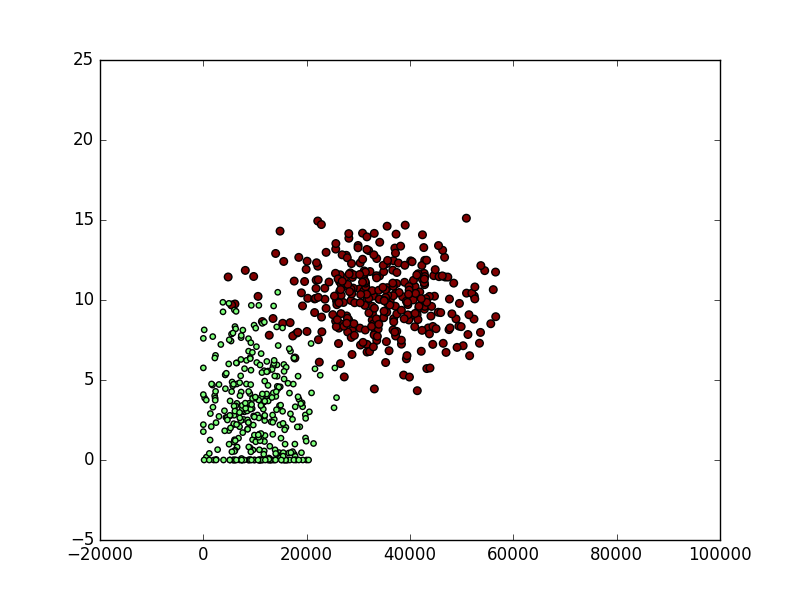
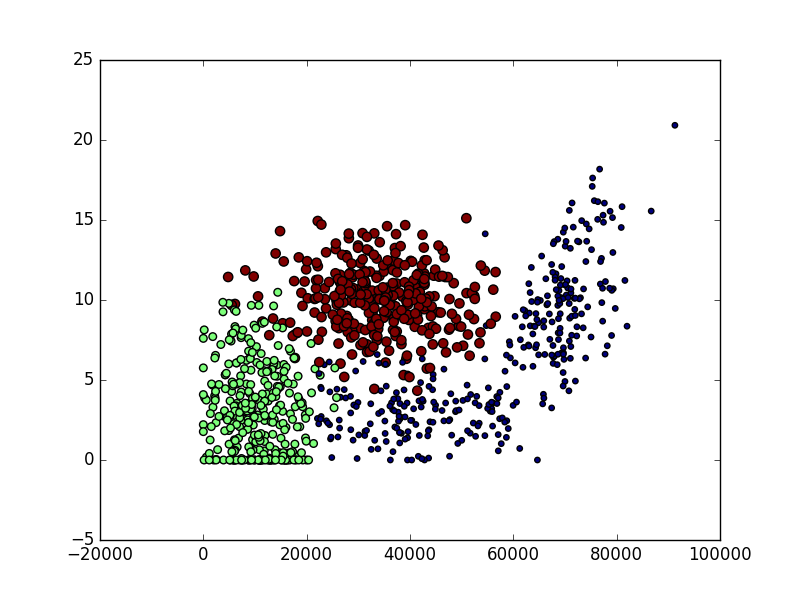
change images

Changed region(s): [[0.25, 0.27, 0.7812, 0.78], [0.3438, 0.36, 0.4062, 0.39], [0.5625, 0.36, 0.5938, 0.39]]

diff --git a/Ch02_kNN/kNN.py b/Ch02_kNN/kNN.py
@@ -6,14 +6,14 @@ k-近邻（kNN）算法测试
 '''
 
 
-import numpy    #科学计算模块包
+import numpy as np   #科学计算模块包
 import operator #运算符模块包
 
 def createDataset():
     '''
     准备训练样本集，返回数据与对应标签
     '''
-    group = numpy.array([[1.0, 1.1], [1.0, 1.0], [0, 0], [0, 0.1]])
+    group = np.array([[1.0, 1.1], [1.0, 1.0], [0, 0], [0, 0.1]])
     labels = ['A', 'A', 'B', 'B']
     return group, labels
 
@@ -32,40 +32,57 @@ def classify0(inX, dataSet, lables, k):
     lables:训练样本对应标签（与dataSet len 等长）
     k: 要选取前多少个相近记录。
     '''
-    dataSetLen = dataSet.shape[0] #返回dataSet样本长度
+    dataSetLen = dataSet.shape[0] #dataSet.shape返回dataSet样本的维数元组，其中第一个元素为样本个数
     
-    diffMat = numpy.tile(inX, (dataSetLen, 1)) - dataSet
+    diffMat = np.tile(inX, (dataSetLen, 1)) - dataSet
     '''
-    tile函数说明: Repeat elements of an array.
-
-    Examples
-    --------
-    >>> a = np.array([0, 1, 2])
-    >>> np.tile(a, 2)
-    array([0, 1, 2, 0, 1, 2])
-    >>> np.tile(a, (2, 2))
-    array([[0, 1, 2, 0, 1, 2],
-           [0, 1, 2, 0, 1, 2]])
-    >>> np.tile(a, (2, 1, 2))
-    array([[[0, 1, 2, 0, 1, 2]],
-           [[0, 1, 2, 0, 1, 2]]])
-
-    >>> b = np.array([[1, 2], [3, 4]])
-    >>> np.tile(b, 2)
-    array([[1, 2, 1, 2],
-           [3, 4, 3, 4]])
-    >>> np.tile(b, (2, 1))
-    array([[1, 2],
-           [3, 4],
-           [1, 2],
-           [3, 4]])
+        tile函数说明: Repeat elements of an array.
+    
+        Examples
+        --------
+        >>> a = np.array([0, 1, 2])
+        >>> np.tile(a, 2)
+        array([0, 1, 2, 0, 1, 2])
+        >>> np.tile(a, (2, 2))
+        array([[0, 1, 2, 0, 1, 2],
+               [0, 1, 2, 0, 1, 2]])
+        >>> np.tile(a, (2, 1, 2))
+        array([[[0, 1, 2, 0, 1, 2]],
+               [[0, 1, 2, 0, 1, 2]]])
+    
+        >>> b = np.array([[1, 2], [3, 4]])
+        >>> np.tile(b, 2)
+        array([[1, 2, 1, 2],
+               [3, 4, 3, 4]])
+        >>> np.tile(b, (2, 1))
+        array([[1, 2],
+               [3, 4],
+               [1, 2],
+               [3, 4]])
+    '''    
     '''
+    tile也可以使用repeat代替
+    >>> bb =np.array(inX)
+    >>> bb.shape
+    (2,)
+    >>> bb.shape = (1,-1)
+    >>> bb
+    array([[0, 0]])
+    >>> bb.repeat(dataSetLen,axis=0)
+    array([[0, 0],
+       [0, 0],
+       [0, 0],
+       [0, 0],
+       [0, 0]])
+    '''
+    
+    
     sqDiffMat = diffMat ** 2
     sqDistances = sqDiffMat.sum(axis=1)
     distances = sqDistances ** 0.5
     
     #sort distances
-    sortedDistIndicies = distances.argsort()
+    sortedDistIndicies = distances.argsort() #返回从小到大排序后的index
     
     classCount = {}
     for i in range(k):
@@ -76,12 +93,106 @@ def classify0(inX, dataSet, lables, k):
     return sortedClassCount[0][0]
     
     
+
+def file2matrix(filename):
+    '''
+    从文件filename中读取约会数据样本，并返回样本数据与标签
+    '''
+    returnMat = []
+    returnLabel = []
+    lable = {'didntLike':1, 'smallDoses':2, 'largeDoses':3}
+    with open(filename, 'r') as fp:
+        lines = fp.readlines()
+        returnMat = np.zeros((len(lines), 3)) #定义一个(len(lines), 3) 2维数组并填充0
+        '''
+        这里使用zeros初始化全是0是二维数组的好处是，np会默认将从文件读取的字符串转化成float, 不用在代码里显示转换
+        '''
+        index = 0
+        for line in lines:
+            listFromLine = line.strip().split('\t')
+            returnMat[index,:] = listFromLine[0:3]
+            returnLabel.append(lable[listFromLine[-1]] if listFromLine[-1] in lable else 1)
+            index +=1
+        returnMat = np.array(returnMat)
+            
+    return returnMat , returnLabel
+    
+def autoNorm(dataSet):
+    '''
+    针对样本数据归一化，减小不同属性数据单位不一致，导致权重问题
+    '''
+    mimVal = dataSet.min(0)
+    maxVal = dataSet.max(0)
+    ranges = maxVal - mimVal
+    normDataSet = np.zeros(dataSet.shape)
+    
+    normDataSet = dataSet - np.tile(mimVal, (dataSet.shape[0], 1))
+    normDataSet = normDataSet / np.tile(ranges, (dataSet.shape[0], 1))
+    
+    
+    return normDataSet, ranges, mimVal, maxVal
+
+
+def datingClassTest():
+    '''
+    测试约会KNN算法在此样本下的正确率。使用90%的总样本作为训练样本，其余10%用于评估算法的正确率
+    '''
+    hoRatio = 0.05
+    datingDataMat , datingLabels = file2matrix("datingTestSet.txt")
+    datingDataMat, ranges, mimVal, maxVal = autoNorm(datingDataMat)
+    numTestVecs = int(hoRatio * datingDataMat.shape[0])
+    errorCount = 0.0
+    
+    for i in range(numTestVecs):
+        classifyResultLabel = classify0(datingDataMat[i,:], datingDataMat[numTestVecs:datingDataMat.shape[0],:], datingLabels[numTestVecs:datingDataMat.shape[0]], 10)
+        print 'the classify came back with: %d, the real answer is : %d' % (classifyResultLabel, datingLabels[i])
+        if (classifyResultLabel != datingLabels[i]) : errorCount += 1.0
+    print 'the total error rate is : %f' % (errorCount/float(numTestVecs))
+    
+    
+    
+def classifyPersion():
+    '''
+    命令行输入待预测的数据，输出预测结果。
+    '''
+    resultList = ['not at all', 'in small doses', 'in large doses']
+    
+    percentTats = float(raw_input('percentage of time spent playing video games?'))
+    ffMiles = float(raw_input('frequent flier miles earned per year?'))
+    iceCream = float(raw_input('liters of ice cream consumed per year?'))
+    
+    datingDataMat , datingLabels = file2matrix("datingTestSet.txt")
+    datingDataMat, ranges, mimVal, maxVal = autoNorm(datingDataMat)
+    
+    inArr = np.array([percentTats, ffMiles, iceCream])
+    inArr = (inArr - mimVal)/ranges
+    
+    classifyResultLabel = classify0(inArr, datingDataMat, datingLabels, 10)
+    print 'You will probably like this person: ', resultList[classifyResultLabel]
+    
     
     
 if __name__ == "__main__":
     
     dataSet, lables = createDataset()
     inX = [0, 0]
-    print classify0(inX, dataSet, lables, 3)
+    #print classify0(inX, dataSet, lables, 3)
     
+    datingDataMat , datingLabels = file2matrix("datingTestSet.txt")
+    print datingDataMat
+    print datingLabels[0:20]
+    
+    #datingClassTest()
+    
+    #classifyPersion()
+    
+    
+    
+
+    import matplotlib.pyplot as plt
+    
+    fig = plt.figure()
+    ax = fig.add_subplot(111)
+    ax.scatter(datingDataMat[:,1], datingDataMat[:,2], 15.0*np.array(datingLabels), 15.0*np.array(datingLabels))
+    plt.show()
 
